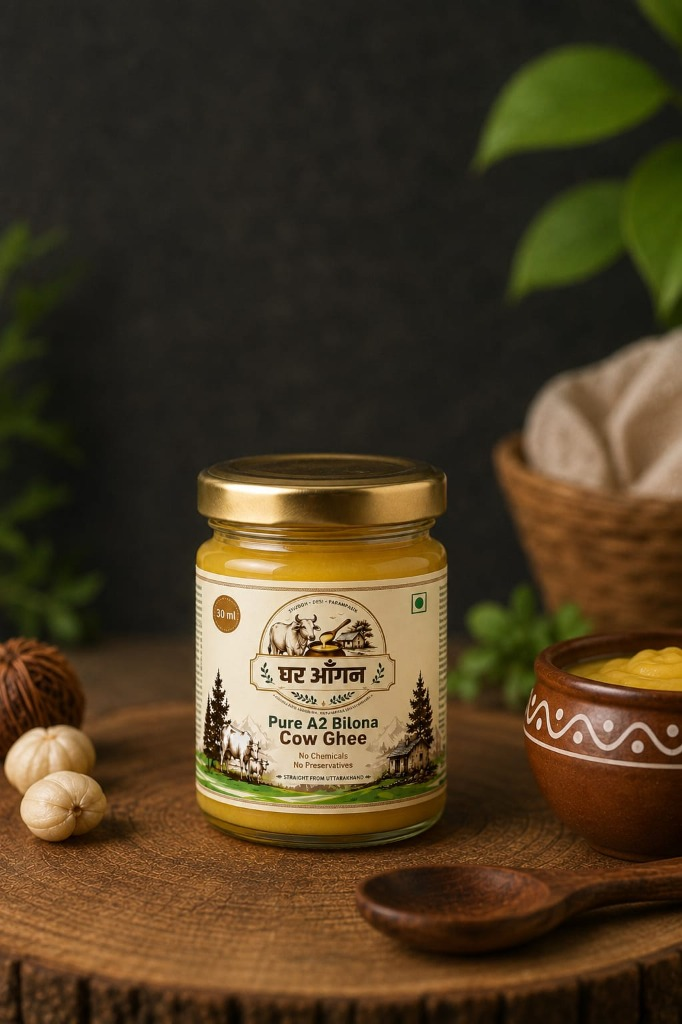
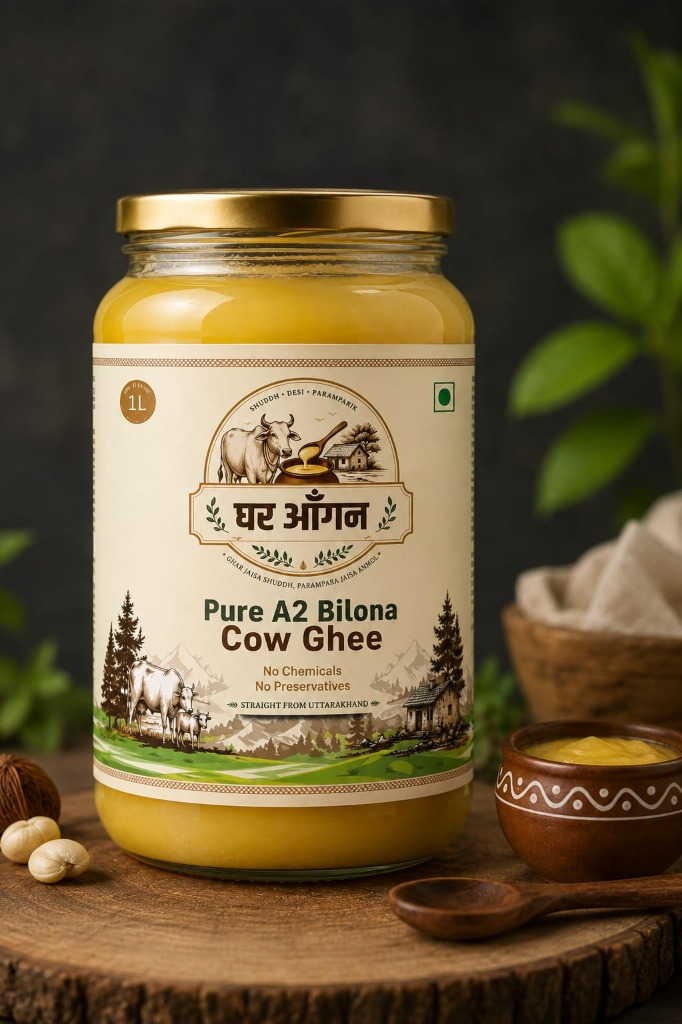
fix: remove secondary shopify button, replace hero image with 1L jar & add mobile responsiveness overrides

diff --git a/style.css b/style.css
@@ -2520,4 +2520,51 @@ p {
     }
 }
 
+/* ==========================================================================
+   12. Responsive Overrides for Launch and General Elements
+   ========================================================================== */
+@media (max-width: 992px) {
+    .launch-announcement-card {
+        text-align: center;
+        margin-left: auto;
+        margin-right: auto;
+        max-width: 550px;
+        width: 100%;
+    }
+    .shopify-cta-wrapper {
+        justify-content: center;
+    }
+}
+
+@media (max-width: 576px) {
+    .top-announcement-bar {
+        font-size: 0.8rem;
+        padding: 8px 12px;
+    }
+    
+    .launch-announcement-card {
+        padding: 20px 16px;
+        margin-bottom: 24px;
+    }
+    
+    .launch-text {
+        font-size: 0.95rem;
+        line-height: 1.5;
+    }
+    
+    .btn-shopify {
+        width: 100%;
+        padding: 12px 20px;
+    }
+}
+
+@media (max-width: 480px) {
+    .category-card {
+        min-width: 100%;
+        width: 100%;
+        max-width: 100%;
+    }
+}
+
+
 

diff --git a/index.html b/index.html
@@ -112,9 +112,6 @@
 
                 <div class="hero-actions animate-slide-up-delay-2">
                     <a href="#prebook" class="btn btn-primary btn-lg shadow-pulse">Book Now <i class="fa-solid fa-arrow-right"></i></a>
-                    <a href="https://j1n0ek-fg.myshopify.com/" target="_blank" rel="noopener" class="btn btn-shopify btn-lg shadow-pulse">
-                        <img src="assets/shopify_logo.png" alt="Shopify Logo" class="shopify-btn-logo" style="height: 20px; margin-right: 8px;"> Shop on Shopify
-                    </a>
                     <a href="tel:+917292002260" class="btn btn-secondary btn-lg"><i class="fa-solid fa-phone"></i> Call +91 7292002260</a>
                 </div>
             </div>
